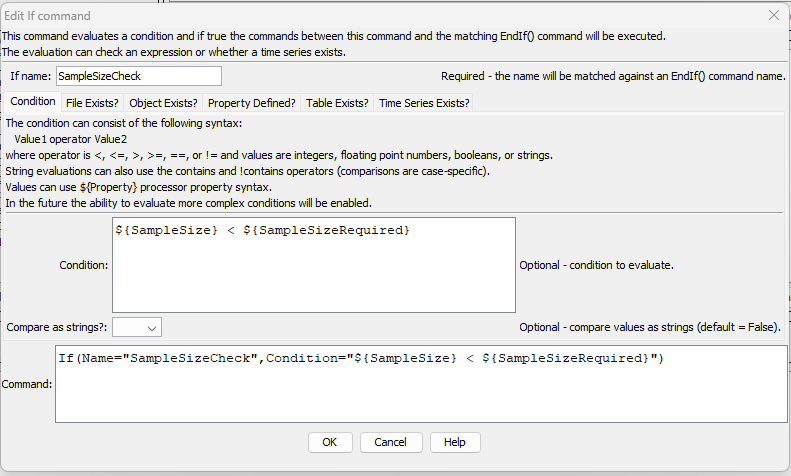
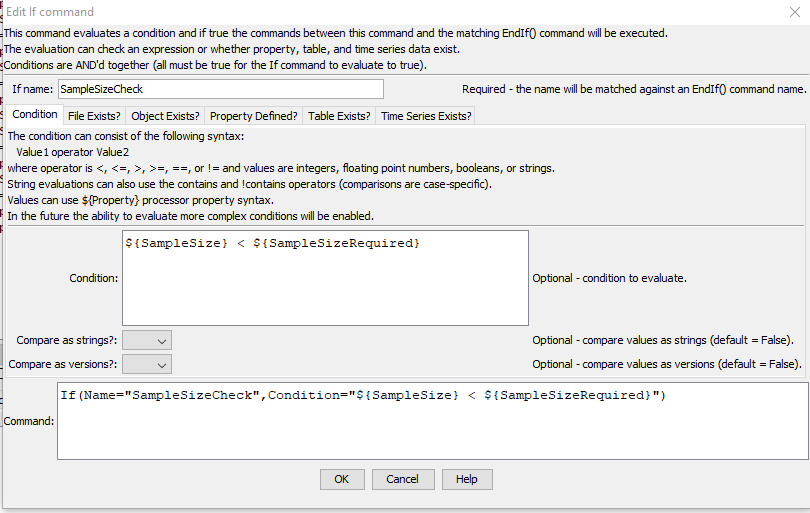
Update documentation for table property commands, issue #157

diff --git a/mkdocs-project/docs/command-ref/CopyTimeSeriesPropertiesToTable/CopyTimeSeriesPropertiesToTable.md b/mkdocs-project/docs/command-ref/CopyTimeSeriesPropertiesToTable/CopyTimeSeriesPropertiesToTable.md
@@ -12,6 +12,9 @@
 ## Overview ##
 
 The `CopyTimeSeriesPropertiesToTable` command copies time series properties to a table.
+Properties consist of dynamic properties set as output from a workflow
+and built-in properties (e.g., `datatype`, `units`) that are automatically set
+(see the documentation for [time series properties](../../introduction/introduction.md#time-series-properties)).
 
 A common use case is to read multiple time series using a `Read` command.
 Read commands can implement a `ReadData=False` parameter to only read time series metadata,
@@ -35,7 +38,7 @@ The command is available in the following TSTool menu:
 *   ***Commands(Table) / Table, Time Series Processing***
 
 The following dialog is used to edit the command and illustrates the command syntax
-(in this case the location part of the time series identifier is used to match the contents of the “loc” column in the table).
+(in this case the full time series identifier is used to match the time series in the table).
 
 **<p style="text-align: center;">
 ![CopyTimeSeriesPropertiesToTable command editor](CopyTimeSeriesPropertiesToTable.png)
@@ -61,14 +64,16 @@ Command Parameters
 |`TSList`|Indicates the list of time series to be processed, one of:<br><ul><li>`AllMatchingTSID` – all time series that match the TSID (single TSID or TSID with wildcards) will be processed.</li><li>`AllTS` – all time series before the command.</li><li>`EnsembleID` – all time series in the ensemble will be processed (see the EnsembleID parameter).</li><li>`FirstMatchingTSID` – the first time series that matches the TSID (single TSID or TSID with wildcards) will be processed.</li><li>`LastMatchingTSID` – the last time series that matches the TSID (single TSID or TSID with wildcards) will be processed.</li><li>`SelectedTS` – the time series are those selected with the [`SelectTimeSeries`](../SelectTimeSeries/SelectTimeSeries.md) command.</li></ul> | `AllTS` |
 |`TSID`|The time series identifier or alias for the time series to be processed, using the `*` wildcard character to match multiple time series.  Can be specified using `${Property}`.|Required if `TSList=*TSID`|
 |`EnsembleID`|The ensemble to be processed, if processing an ensemble. Can be specified using `${Property}`.|Required if `TSList=*EnsembleID`|
-|`IncludeProperties`|A list of user-defined (dynamic) time series property names to be copied to the table, separated by commas.  Can be specified using `${Property}`. |Copy all dynamic properties.|
-|`IncludeBuiltInProperties`|A list of built-in time series property names to be copied to the table, separated by commas.  Use `*` for all properties.    Can be specified using `${Property}`.  The following built-in properties are available:<ul><li>`alias`</li><li>`datatype`</li><li>`description`</li><li>`interval`</li><li>`tsid`</li><li>`units`</li></ul>| Copy no built-in properties.|
+|`IncludeProperties`|A list of user-defined (dynamic) time series property names for properties to be copied to the table, separated by commas.  Specify with `*` wildcard characgers to match multiple properties.  Can be specified using `${Property}`. |Copy all dynamic properties.|
+|`ExcludeProperties`|A list of user-defined (dynamic) time series property names for properties to **not** be copied to the table, separated by commas, which will modify the `IncludeProperties` list.  Specify with `*` wildcard characters to match multiple properties.  Can be specified using `${Property}`. |Copy all dynamic properties.|
+|`IncludeBuiltInProperties`|A list of built-in time series property names for properties to be copied to the table, separated by commas.  Use `*` for all properties. Specify with `*` wildcard characters to match multiple properties. Can be specified using `${Property}`.  See the documentation for [time series properties](../../introduction/introduction.md#time-series-properties) (e.g., use `units` as the property name). | Copy no built-in properties.|
+|`ExcludeBuiltInProperties`|A list of built-in time series property names for properties to **not** be copied to the table, separated by commas, which will modify the `IncludeBuiltInProperties` list.  Specify with `*` wildcard characters to match multiple properties. Specify with `*` wildcard characters to match multiple properties. Can be specified using `${Property}`.  See the documentation for [time series properties](../../introduction/introduction.md#time-series-properties) (e.g., use `units` as the property name). | Copy no built-in properties.|
 |`TableID`|The identifier for the existing or new table to receive properties.  Can specify using processor `${Property}`.|None – must be specified.|
 |`TableTSIDColumn`|Table column name that is used to match the time series identifier for processing, to select the row.  Can be specified using `${Property}`. |None – must be specified.|
 |`TableTSIDFormat`|The specification to format the time series identifier to match the `TSID` column.  Use the format choices and other characters to define a unique identifier.|Time series alias if available, or otherwise the time series identifier.|
 |`AllowDuplicates`|Allow duplicate TSID rows in the output:<ul><li>`False` – match `TSID`, intended for cases where `TSID` are distinct</li><li>`True` – add new rows regardless, for cases where multiple time series having the same `TSID` are processed and should each have a row in the output table.|`False` (if `TSID` is matched, set the properties for that row).|
-|`NameMap`|A map of time series property name to table column name in format `PropertyName1:ColumnName,PropertyName2:ColumnName2,...`. Can be specified using `${Property}`.| Time series property name is used for the table column name. |
-|`TableOutputColumns`| **The `NameMap` parameter should be used instead of this older parameter.  This parameter may be removed in the future.** The name(s) of the column(s) to receive properties for the matching time series.  Separate column names with commas.  If a column name is specified as `*`, the property name is used for the column name.  Can be specified using `${Property}`. | If not specified, use `IncludeProperties`.|
+|`NameMap`|A map of time series property name to table column name in format `PropertyName1:ColumnName,PropertyName2:ColumnName2,...`. Can be specified using `${Property}`. Only time series property names are mapped to the new name (existing table columns will remain). | Time series property name is used for the table column name. |
+|`TableOutputColumns`| **The `NameMap` parameter should be used instead of this older parameter.  This parameter has been removed as of TSTool version 14.10.0.** The name(s) of the column(s) to receive properties for the matching time series.  Separate column names with commas.  If a column name is specified as `*`, the property name is used for the column name.  Can be specified using `${Property}`. | If not specified, use `IncludeProperties`.|
 
 ## Examples ##
 

diff --git a/mkdocs-project/docs/command-ref/SetPropertyFromTable/SetPropertyFromTable.md b/mkdocs-project/docs/command-ref/SetPropertyFromTable/SetPropertyFromTable.md
@@ -11,16 +11,18 @@
 
 ## Overview ##
 
-The `SetPropertyFromTable` command sets the value of properties used by the command processor,
+The `SetPropertyFromTable` command sets the value of a property used by the command processor,
 using table data:
 
 *   **Table cell value:**
-    Filters are used to match one or more rows.  The first matched row is used to set the property.
-*   **Number of rows:** Useful to check that results are as expected.
-*   **Number of columns:** Useful to check that results are as expected.
+    +   Filters (or row number) are used to match one or more rows.
+    +   The filters use simple string matching with `*` wildcard character.
+    +   **The first matched row is used to set the property.**
+*   **Table property:**
+    +   **Number of rows:** Useful to check that results are as expected.
+    +   **Number of columns:** Useful to check that results are as expected.
 
-The properties will be available to subsequent
-commands that support using `${Property}` notation in parameters,
+The properties will be available to subsequent commands that support using `${Property}` notation in parameters,
 for example to dynamically specify time series identifiers or input to commands.
 This command is useful in cases where iteration is processing data from a table using a
 [`For`](../For/For.md) command, in which case the property can be used in other commands.
@@ -64,8 +66,9 @@ Command Parameters
 | --| --------------|-----------------|----------------- |
 |***All*** | `TableID`|The identifier for the table.  Can be specified using `${Property}`.|None – must be specified.|
 |***Cell Property*** | `Column`|The name of the column containing the value that will be used to set the processor property.   Can be specified using `${Property}`.|None – must be specified.|
-||`ColumnIncludeFilters`|Filters that include rows being matched, by matching column values:<br>`ColumnIncludeFilter1:FilterPattern1,ColumnIncludeFilter2:FilterPattern2`<br>Patterns can use `*` to indicate wildcards for matches.  Only string values can be checked (other data types are converted to strings for comparison).  All patterns must be matched to exclude the row.  Can be specified using `${Property}`.|All rows are matched.|
-||`ColumnExcludeFilters`|Filters that exclude rows being copied, by matching column values:<br>`ColumnExcludeFilter1:FilterPattern1,ColumnExcludeFilter2:FilterPattern2`<br>Patterns can use `*` to indicate wildcards for matches.  Only string values can be checked (other data types are converted to strings for comparison).  All patterns must be matched to exclude the row.  Can be specified using `${Property}`.|All rows are matched.|
+||`ColumnIncludeFilters`|Filters that include rows being matched, by matching column values:<br>`ColumnIncludeFilter1:FilterPattern1,ColumnIncludeFilter2:FilterPattern2`<br>Patterns can use `*` to indicate wildcards for matches.  Values are treated as strings for checks.  All patterns must be matched to include the row.  Can be specified using `${Property}`.|All rows are matched.|
+||`ColumnExcludeFilters`|Filters that exclude rows being copied, by matching column values:<br>`ColumnExcludeFilter1:FilterPattern1,ColumnExcludeFilter2:FilterPattern2`<br>Patterns can use `*` to indicate wildcards for matches.  Values are treated as strings for checks.  All patterns must be matched to exclude the row.  Can be specified using `${Property}`.|All rows are matched.|
+||`IgnoreCase`|Whether the filter comparisons should ignore case (`True`) or consider case (`False`). | `True` |
 ||`Row`|The row number (1+) to match or `last` to match the last row in the table. | If not specified, use the column filters to match rows. |
 ||`PropertyName`|The property name to be set.  Can be specified using `${Property}`.|None – must be specified.|
 ||`DefaultValue`|The default value to use if no table cell is matched:<br><ul><li>`Blank` – to use a blank string</li><li>`Null` – to use a null value</li><li>Specified value to set to a string value.</li></ul><br>Can be specified using `${Property}`.|Property is set to null.|
@@ -76,7 +79,7 @@ Command Parameters
 
 See the [automated tests](https://github.com/OpenCDSS/cdss-app-tstool-test/tree/master/test/commands/SetPropertyFromTable).
 
-The command shown in the editor dialog, used with the following table, will set `StringProp=“Abba”`
+The command shown in the editor dialog, used with the following table, will set `StringProp1=“Abba”`
 
 **<p style="text-align: center;">
 ![SetPropertyFromTable example table](SetPropertyFromTable_example.png)

diff --git a/mkdocs-project/docs/command-ref/If/If.md b/mkdocs-project/docs/command-ref/If/If.md
@@ -149,11 +149,15 @@ Command Parameters
 |**All**| `Name`<br>**required** | The name of the `If` command, which will be matched with the name of an [`EndIf`](../EndIf/EndIf.md) command to indicate the block of commands in the if condition. | None - must be specified. |
 |**Condition**| `Condition`<br>**required** | The conditional statement to evaluate. | `Condition` and/or `TSExists` and/or `PropertyIsNotDefinedOrIsEmpty` must be specified. |
 || `CompareAsStrings` | If `True`, the comparison will be done as strings even if the values could be treated as numbers or Booleans. | `False` |
+|| `CompareAsVersions` | If `True`, the comparison will be done by treating the strings as [semantic versions](https://semver.org/). This can be used to check the TSTool, plugin, or API version to ensure that enabled command features are used. | `False` |
 |**File Exists?**| `FileExists` | Causes the command to evaluate to `True` if the specified file exists.  Can specify using `${Property}`. | `Condition` and/or one or more other checks must be specified. |
 || `FileDoesNotExist` | Causes the command to evaluate to `True` if the specified file does not exist.  Can specify using `${Property}`. | `Condition` and/or one or more other checks must be specified. |
 |**Object Exists?** | `ObjectExists` | Causes the command to evaluate to `True` if the specified object exists, based on checking the object IDs.  Can specify using `${Property}`. | `Condition` and/or one or more other checks must be specified. |
 || `ObjectDoesNotExist` | Causes the command to evaluate to `True` if the specified object does not exist, based on checking the object IDs.  Can specify using `${Property}`. | `Condition` and/or one or more other checks must be specified. |
-|**Property Defined?**| `PropertyIsNotDefinedOrIsEmpty` | Causes the command to evaluate to `True` if the specified parameter (a property name) is not defined or has a value of null, `NaN` (floating point numbers), or is an empty string. | `Condition` and/or one or more other checks must be specified. |
+|**Property Defined?**| `PropertyIsNotDefinedOrIsEmpty` | Causes the command to evaluate to `True` if the property matching the specified name is not defined, because one of the following is true:<ul><li>has a value of null</li><li>has a value of `NaN` for floating point numbers</li><li>is an empty string</li></ul> | `Condition` and/or one or more other checks must be specified. |
+|| `PropertyIsDefined` | Causes the command to evaluate to `True` if the property matching the specified name is defined, meaning that it has a value that is:<ul><li>not null</li><li>not `NaN` (for floating point numbers)</li><li>if a string, may be empty string</li></ul> | `Condition` and/or one or more other checks must be specified. |
+|| `PropertyIsDefined`<br>`AndIsNotEmpty` | Causes the command to evaluate to `True` if the property matching the specified name is defined and not empty, meaning that it has a value that is:<ul><li>not null</li><li>not `NaN` (for floating point number)</li><li>not an empty string</li></ul> | `Condition` and/or one or more other checks must be specified. |
+| | `PropertyIsDefined` | 
 |**Table Exists?**| `TableExists` | Causes the command to evaluate to `True` if the specified table exists, based on checking the table IDs.  Can specify using `${Property}`. | `Condition` and/or one or more other checks must be specified. |
 || `TableDoesNotExist` | Causes the command to evaluate to `True` if the specified table does not exist, based on checking the table IDs.  Can specify using `${Property}`. | `Condition` and/or one or more other checks must be specified. |
 |**Time Series Exists?**| `TsExists` | Causes the command to evaluate to `True` if the specified time series exists.  Specify a TSID or alias to match.  Can specify using `${Property}`. | `Condition` and/or one or more other checks must be specified. |

diff --git a/mkdocs-project/docs/appendix-release-notes/release-notes-14.md b/mkdocs-project/docs/appendix-release-notes/release-notes-14.md
@@ -80,16 +80,28 @@ Issues may also be included in other repositories that are TSTool components.
 *   ![change](change.png) [14.10.0] Update the [`ChangeInterval`](../command-ref/ChangeInterval/ChangeInterval.md) command:
     +   Expand the `Alias` parameter only when in run mode.
         The original alias value will be listed in command editors for following commands.
+*   ![change](change.png) [14.10.0] Update the
+    [`CopyTimeSeriesPropertiesToTable`](../command-ref/CopyTimeSeriesPropertiesToTable/CopyTimeSeriesPropertiesToTable.md) command:
+    +   Add the `ExcludeProperties` parameter to exclude dynamic properties from the copy.
+    +   Add the `ExcludeBuiltInProperties` parameter to exclude built-in properties from the copy.
+    +   Remove the `TableOutputColumns` parameter (use the `NameMap` parameter instead).
 *   ![change](change.png) [14.10.0] Update the [`For`](../command-ref/For/For.md) command:
     +   Add the `PeriodStart`, `PeriodEnd`, and `PeriodIncrement` command parameters to iterate over a date/time period,
         which allows time series data values to be processed individually.
+*   ![change](change.png) [14.10.0] Update the [`If`](../command-ref/If/If.md) command:
+    +   Add the `CompareAsVersions` parameter to compare strings as versions,
+        which allows workflows to more easily handle logic for different software or API versions.
+    +   Add the `PropertyIsDefinedAndIsNotEmpty` parameter to provide more granular control
+        over property checks.
 *   ![change](change.png) [14.10.0] Update the [`ListFiles`](../command-ref/ListFiles/ListFiles.md) command:
     +   Add the `CountProperty` to set a property with the size of the output list,
 *   ![change](change.png) [14.10.0] Update the [`SetProperty`](../command-ref/SetProperty/SetProperty.md) command:
     +   Allow the property value to start or end with white space characters.
     +   Allow the property name to contain `${Property}` syntax, which allows property names to be dynamic.
     +   Add `LastSunday`, etc., to create date/time properties for recent days.
-*   ![change](change.png) [14.10.0] Update the [`SetPropertyFromTable`](../command-ref/SetPropertyFromTimeSeries/SetPropertyFromTable.md) command:
+*   ![change](change.png) [14.10.0] Update the [`SetPropertyFromTable`](../command-ref/SetPropertyFromTable/SetPropertyFromTable.md) command:
+    +   Improve warnings when a column is not found for the `ColumnIncludeFilters` and `ColumnExcludeFilters` parameters.
+    +   Add the `IgnoreCase` command parameter to provide control over filter comparisons.
     +   Add the `Row` command parameter to match a specific row.
 *   ![change](change.png) [14.10.0] Update the [`SetPropertyFromTimeSeries`](../command-ref/SetPropertyFromTimeSeries/SetPropertyFromTimeSeries.md) command:
     +   Allow the property value to start or end with white space characters.

diff --git a/mkdocs-project/docs/introduction/introduction.md b/mkdocs-project/docs/introduction/introduction.md
@@ -518,17 +518,17 @@ The following table lists time series
 Time Series Format Descriptors and Properties
 </p>**
 
-| **% Descriptor** | **Named Property Syntax** | **Object Type** | **Description** |
+| **% Descriptor** | **Named Property Syntax**&nbsp;&nbsp;&nbsp;&nbsp; | **Object Type** | **Description** |
 | -- | -- | -- | -- |
-| `%A` | `${ts:alias}` | string | Alias |
-| `%b` | | string | Data interval base for interval time series (e.g., `Day` for `1Day`) |
-| `%D` | `${ts:description}` | string | Description |
+| `%A` | `${ts:alias}` | string | Alias. |
+| `%b` | | string | Data interval base for interval time series (e.g., `Day` for `1Day`). |
+| `%D` | `${ts:description}` | string | Description. |
 | `%F` | `${ts:tsid}` | string | Time series identifier (TSID). |
-| `%I` | `${ts:interval}` | string | Data interval (e.g., `IrregSecond`, `Day`, `1Day`) |
+| `%I` | `${ts:interval}` | string | Data interval (e.g., `IrregSecond`, `Day`, `1Day`). |
 | `%i` | | string | Input name when time series is read from a file. |
 | `%L` | | string | Location full part of the TSID. |
 | `%l` | | string | Location main part of the TSID, when delimited with a dash. |
-| `%m` | | integer | Data interval multiplier for interval time series (e.g., `1` for `1Day`) |
+| `%m` | | integer | Data interval multiplier for interval time series (e.g., `1` for `1Day`). |
 | `%p` | | string | Data period formatted as ? |
 | | `${ts:periodstart}` | date/time | Data period start. |
 | | `${ts:periodend}`| date/time | Data period end. |
@@ -763,7 +763,7 @@ By default, the entire time series will be read unless the
 [`SetOutputPeriod`](../command-ref/SetOutputPeriod/SetOutputPeriod.md) commands have been specified.
 
 1.  Read data.  If the input type, and if needed, input name, are specified in the identifier,
-    they are used to read the data.   Time series properties such as units are assigned.
+    they are used to read the data.  Time series properties such as units are assigned.
 2.  Compute data limits.  The time series data limits are computed because they may be needed later for filling.
     This information includes the long-term monthly averages.  These limits are referred to as the original data limits.
 3.  Save time series in processor.  The time series that are read or created are managed by the processor,
